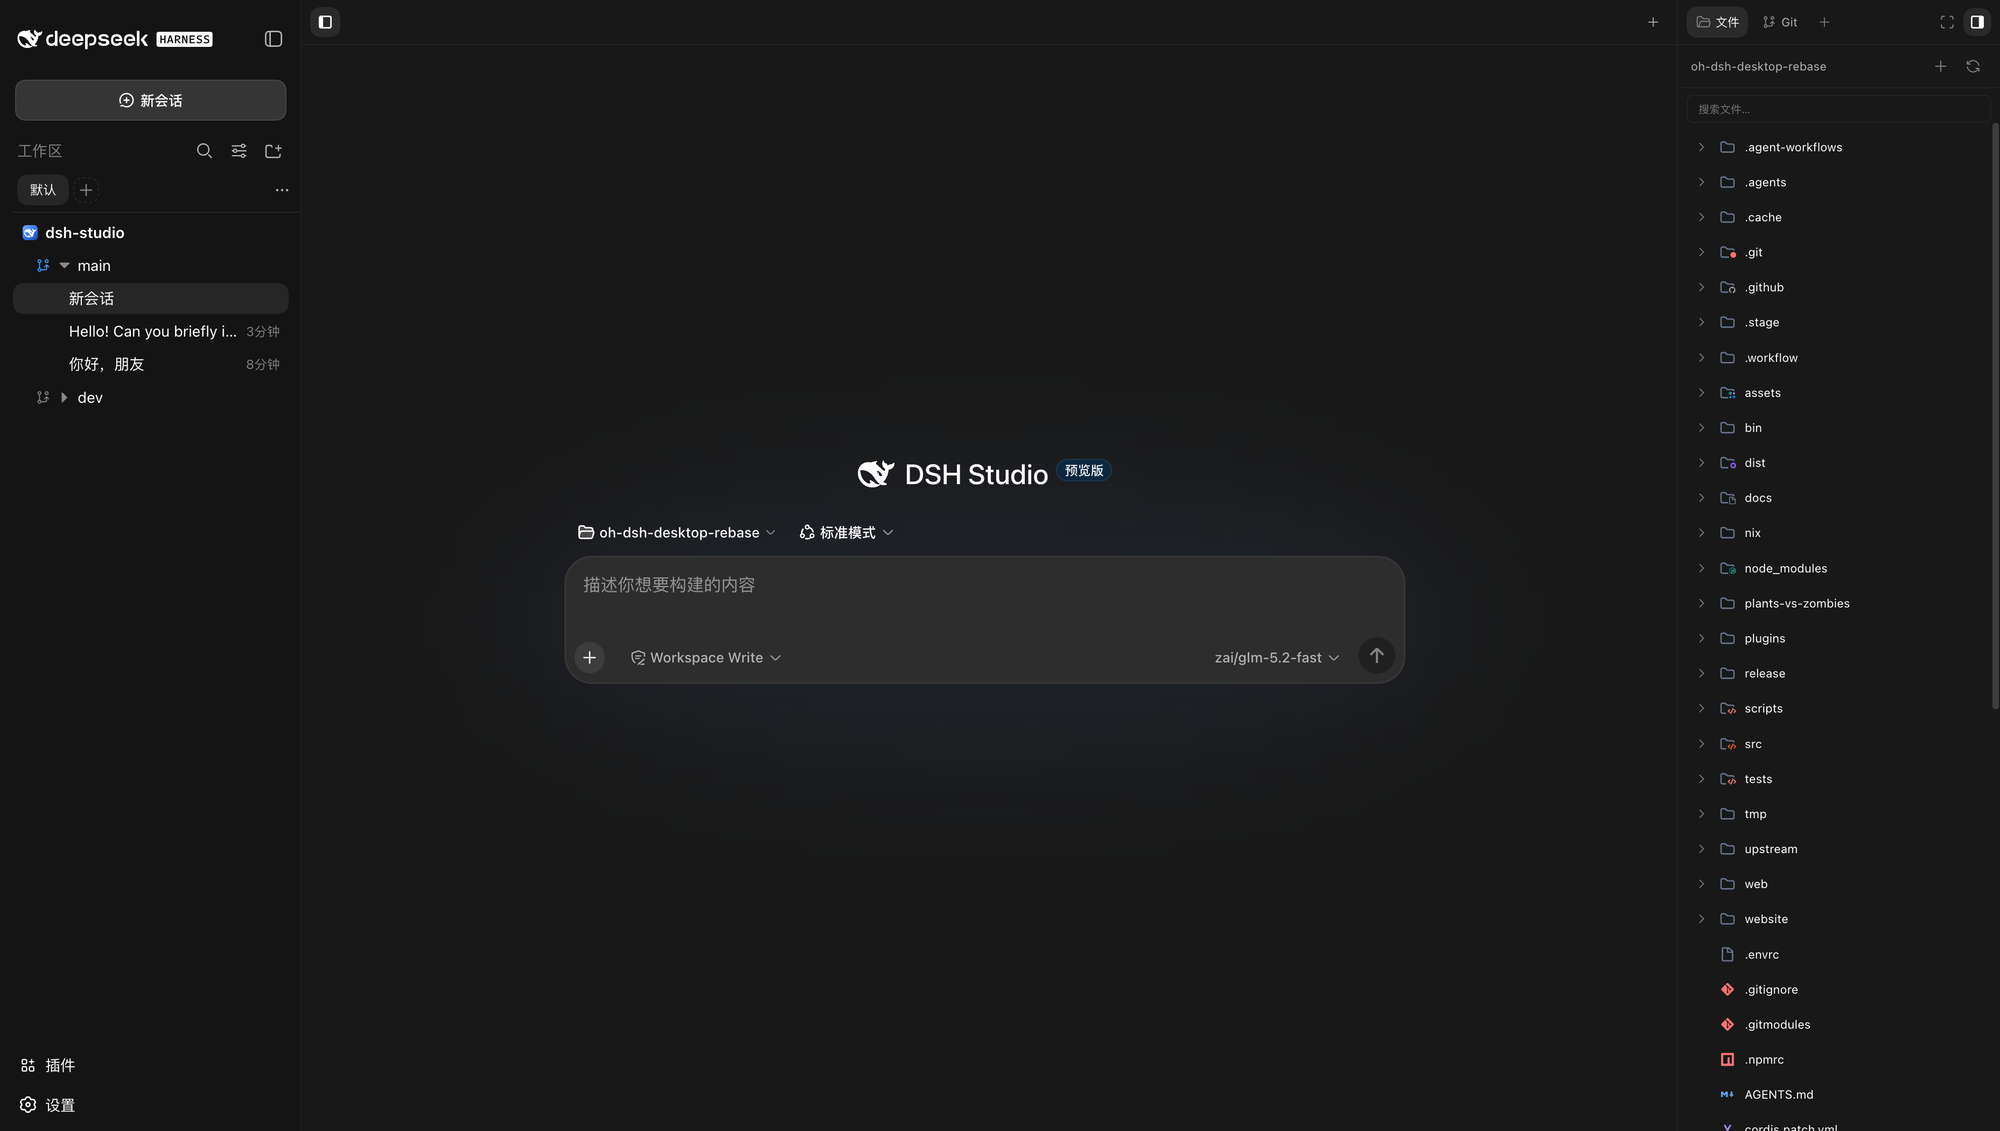
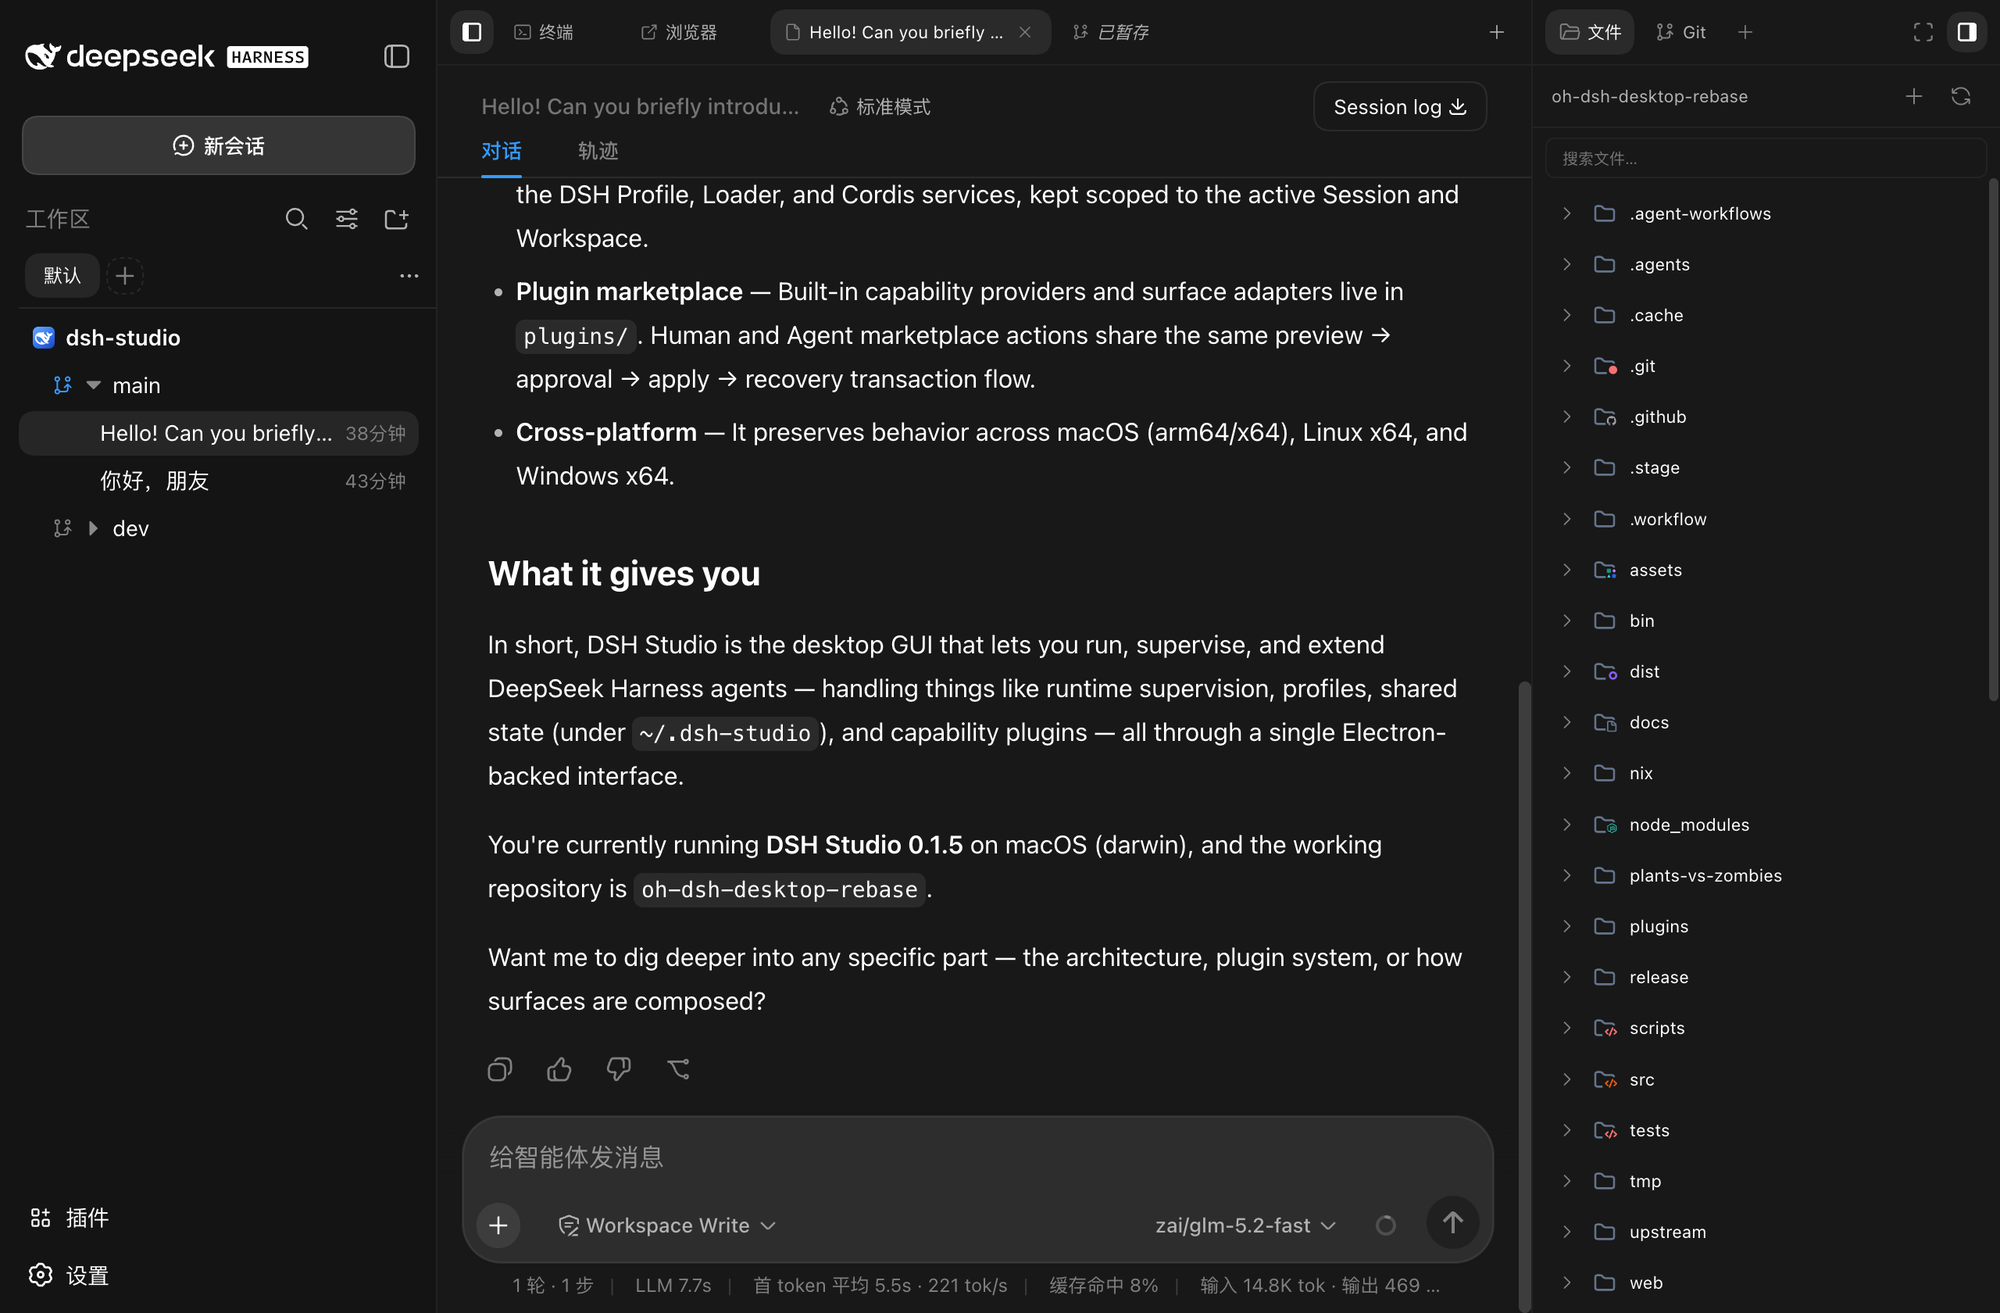
docs: add scenario screenshots to READMEs
Recapture all README screenshots with multiple center tabs mounted
(conversation selected, terminal and browser tabs in the bar) so the
images reflect real working layouts. Add three new scenarios: the
left-rail project tree with automatically detected project icons
(from package.json icon, local PNG, homepage favicon, or Git provider
avatar), AI commit message generation in the Git panel, and the
staged 'view all' surface that opens staged files as a center tab
with a file tree. Rewrite the interface preview sections in both
READMEs with descriptive copy per scenario.

diff --git a/README.en.md b/README.en.md
@@ -32,53 +32,73 @@
 
 DSH Studio is built on the DeepSeek Harness runtime. It brings AI agents, workspaces, local development tools, and the plugin ecosystem into an installable Desktop/Web workbench. Model services can still run in the cloud; projects, sessions, terminals, files, Git review, browser state, and plugin state are organized by one local workspace.
 
+The screenshot above shows the typical DSH Studio layout: the left rail lists multiple projects and branches, the center area keeps conversation, terminal, and browser tabs open simultaneously while staying on the conversation tab, and the right-rail Git panel shows staged changes and diffs in real time.
+
 ## Interface preview
 
-<table>
-  <tr>
-    <td width="50%" valign="top">
-      <h3>🗂 Project tree — left rail</h3>
-      <p>Project → Worktree → Session tree with multiple projects, branches, groups, aliases, project icons, search, and persistent view state.</p>
-      <img src="./assets/dsh-studio-left-rail.png" alt="Left rail project tree" width="100%">
-    </td>
-    <td width="50%" valign="top">
-      <h3>🔍 Git review — right rail</h3>
-      <p>Staged / unstaged / untracked sections, commit history, commit file trees, committed / unpushed diffs, and review targets on code lines.</p>
-      <img src="./assets/dsh-studio-git-review.png" alt="Git review panel" width="100%">
-    </td>
-  </tr>
-  <tr>
-    <td width="50%" valign="top">
-      <h3>📄 Diff viewer</h3>
-      <p>Multi-file path tree, line-level diff, image diff, conflict view, and inline comment targets for committed and unpushed changes.</p>
-      <img src="./assets/dsh-studio-diff.png" alt="Diff viewer" width="100%">
-    </td>
-    <td width="50%" valign="top">
-      <h3>📁 File browsing</h3>
-      <p>Project-scoped file tree and file preview with search, sort, and quick navigation.</p>
-      <img src="./assets/dsh-studio-files.png" alt="File browsing" width="100%">
-    </td>
-  </tr>
-  <tr>
-    <td width="50%" valign="top">
-      <h3>🖥 Project terminal</h3>
-      <p>Native PTY, unified shell resolution, project-scoped sessions, streaming and replay — available as a center tab or right-rail panel.</p>
-      <img src="./assets/dsh-studio-terminal.png" alt="Project terminal" width="100%">
-    </td>
-    <td width="50%" valign="top">
-      <h3>⚙ Settings</h3>
-      <p>General settings, model config, Agent presets, sidebar options, and skin switching in one panel shared across Desktop and Web.</p>
-      <img src="./assets/dsh-studio-settings.png" alt="Settings panel" width="100%">
-    </td>
-  </tr>
-  <tr>
-    <td width="50%" valign="top" colspan="2">
-      <h3>🧩 Plugin marketplace</h3>
-      <p>Browse and manage DSH plugins from multiple sources. Candidates go through preview and approval, with source locking, bundle validation, apply, and restore flows.</p>
-      <img src="./assets/dsh-studio-plugin-marketplace.png" alt="Plugin marketplace" width="100%">
-    </td>
-  </tr>
-</table>
+### 🗂 Project tree with automatic icons
+
+The left rail organizes context in a **Project → Worktree → Session** tree. Each project's icon is automatically detected from static assets inside the project directory — it first reads the `icon` field declared in `package.json`, then searches for PNG files in the project, and can also pull from the project homepage favicon or the Git provider avatar — no manual configuration needed.
+
+<p align="center">
+  <img src="./assets/dsh-studio-project-icons.png" alt="Left rail project tree with automatic icons" width="280">
+</p>
+
+If the automatic detection is not what you want, right-click the project to choose a built-in icon or upload a custom PNG. The left rail also supports multiple projects, branches, groups, aliases, search, and persistent view state.
+
+### 🔍 Git review and smart commit
+
+The right-rail Git panel brings staged, unstaged, untracked sections and commit history together in one panel. Click "Generate commit message" to call the model and auto-write a commit title and body from the current changes, with configurable model and reasoning effort.
+
+<p align="center">
+  <img src="./assets/dsh-studio-ai-commit.png" alt="AI-generated commit message" width="100%">
+</p>
+
+After generation you can edit the message inline and commit all staged changes with one click. Clicking "View all" in the staged section opens the staged files as a standalone center tab with the file tree on the left, making it easy to compare code and diffs side by side.
+
+<p align="center">
+  <img src="./assets/dsh-studio-view-all.png" alt="View all staged files" width="100%">
+</p>
+
+### 📄 Diff viewer
+
+Click any file in the Git panel to open the diff viewer in the right rail. It supports line-level diff, image diff, conflict view, and inline comment targets, and can compare committed and unpushed changes.
+
+<p align="center">
+  <img src="./assets/dsh-studio-diff.png" alt="Diff viewer" width="100%">
+</p>
+
+### 📁 File browsing
+
+Switch the right rail to the Files tab to browse the project-level file tree and preview files, with search, sort, and quick navigation. The center conversation tab stays open, so file browsing does not interrupt the chat.
+
+<p align="center">
+  <img src="./assets/dsh-studio-files.png" alt="File browsing" width="100%">
+</p>
+
+### 🖥 Project terminal
+
+The terminal opens as a center tab with a native PTY, unified shell resolution, and project-scoped sessions. Conversation and browser tabs stay in the tab bar for instant switching.
+
+<p align="center">
+  <img src="./assets/dsh-studio-terminal.png" alt="Project terminal" width="100%">
+</p>
+
+### ⚙ Settings
+
+General settings, model config, Agent presets, sidebar options, and skin switching share one panel across Desktop and Web.
+
+<p align="center">
+  <img src="./assets/dsh-studio-settings.png" alt="Settings panel" width="100%">
+</p>
+
+### 🧩 Plugin marketplace
+
+Browse and manage DSH plugins from multiple sources. Candidates go through preview and approval, with source locking, bundle validation, apply, and restore flows.
+
+<p align="center">
+  <img src="./assets/dsh-studio-plugin-marketplace.png" alt="Plugin marketplace" width="100%">
+</p>
 
 ## Features
 

diff --git a/README.md b/README.md
@@ -32,53 +32,73 @@
 
 DSH Studio 基于 DeepSeek Harness runtime 构建，把 AI Agent、Workspace、本地开发工具和插件生态组织到一个可安装的 Desktop/Web 工作台中。模型服务仍可按需运行在云端；项目、会话、终端、文件、Git Review、浏览器和插件状态由本地工作区统一组织。
 
+上图展示了 DSH Studio 的典型工作布局：左栏项目树列出多个项目和分支，中间区域同时挂载对话、终端和浏览器三个标签页并停留在对话标签，右栏 Git 面板实时显示暂存区与变更。
+
 ## 界面预览
 
-<table>
-  <tr>
-    <td width="50%" valign="top">
-      <h3>🗂 项目树 — 左栏</h3>
-      <p>Project → Worktree → Session 三层项目树，支持多项目、多分支、分组、别名、项目图标、搜索和持久化视图状态。</p>
-      <img src="./assets/dsh-studio-left-rail.png" alt="左栏项目树" width="100%">
-    </td>
-    <td width="50%" valign="top">
-      <h3>🔍 Git Review — 右栏</h3>
-      <p>查看 staged / unstaged / untracked 分区，浏览提交历史、commit 文件树、committed / unpushed diff，在代码行上留下审阅目标。</p>
-      <img src="./assets/dsh-studio-git-review.png" alt="Git Review 面板" width="100%">
-    </td>
-  </tr>
-  <tr>
-    <td width="50%" valign="top">
-      <h3>📄 Diff 查看器</h3>
-      <p>多文件路径树、行级 diff、图片 diff、冲突查看和行内评论目标，支持 committed 与 unpushed 变更对比。</p>
-      <img src="./assets/dsh-studio-diff.png" alt="Diff 查看器" width="100%">
-    </td>
-    <td width="50%" valign="top">
-      <h3>📁 文件浏览</h3>
-      <p>项目级文件树与文件预览，支持搜索、排序和快速跳转。</p>
-      <img src="./assets/dsh-studio-files.png" alt="文件浏览" width="100%">
-    </td>
-  </tr>
-  <tr>
-    <td width="50%" valign="top">
-      <h3>🖥 项目级终端</h3>
-      <p>原生 PTY、shell 解析链统一、项目级作用域、流式输出与重放，可作为中心 Tab 或右栏面板打开。</p>
-      <img src="./assets/dsh-studio-terminal.png" alt="项目级终端" width="100%">
-    </td>
-    <td width="50%" valign="top">
-      <h3>⚙ 设置面板</h3>
-      <p>通用设置、模型配置、Agent 预设、侧边栏选项和皮肤切换集中在一个面板内，Desktop 与 Web 共享同一套配置。</p>
-      <img src="./assets/dsh-studio-settings.png" alt="设置面板" width="100%">
-    </td>
-  </tr>
-  <tr>
-    <td width="50%" valign="top" colspan="2">
-      <h3>🧩 插件市场</h3>
-      <p>浏览和管理来自多个来源的 DSH 插件。安装前经过候选预览与审批，保留来源锁定、bundle 校验、应用和恢复流程。</p>
-      <img src="./assets/dsh-studio-plugin-marketplace.png" alt="插件市场" width="100%">
-    </td>
-  </tr>
-</table>
+### 🗂 项目树与自动图标
+
+左栏按 **Project → Worktree → Session** 三层组织工作上下文。每个项目的图标会自动探测项目目录中的静态资源——优先读取 `package.json` 声明的 icon 字段，其次搜索项目内的 PNG 文件，还可以从项目主页 favicon 或 Git 平台头像获取——无需手动配置即可显示项目专属图标。
+
+<p align="center">
+  <img src="./assets/dsh-studio-project-icons.png" alt="左栏项目树与自动图标" width="280">
+</p>
+
+如果自动探测不符合预期，也可以右键项目手动设置内置图标或上传自定义 PNG。左栏同时支持多项目、多分支、项目分组、别名、搜索和持久化视图状态。
+
+### 🔍 Git Review 与智能提交
+
+右栏 Git 面板把暂存区、未暂存、未跟踪分区和提交历史集中在一个面板内。点击「生成提交信息」即可调用模型根据当前变更自动撰写提交标题和正文，支持选择模型和思考强度。
+
+<p align="center">
+  <img src="./assets/dsh-studio-ai-commit.png" alt="智能生成提交信息" width="100%">
+</p>
+
+提交信息生成后可以直接在提交信息框里编辑，确认后一键提交全部暂存变更。点击已暂存区的「查看全部」会把暂存文件展开为中心区域的一个独立标签页，左边保留文件树导航，方便对照代码和 diff。
+
+<p align="center">
+  <img src="./assets/dsh-studio-view-all.png" alt="查看全部暂存文件" width="100%">
+</p>
+
+### 📄 Diff 查看器
+
+点击 Git 面板中的任意文件即可在右栏打开 diff 查看器。支持行级 diff、图片 diff、冲突查看和行内评论目标，同时可以对比 committed 与 unpushed 变更。
+
+<p align="center">
+  <img src="./assets/dsh-studio-diff.png" alt="Diff 查看器" width="100%">
+</p>
+
+### 📁 文件浏览
+
+右栏切换到文件标签即可浏览项目级文件树与文件预览，支持搜索、排序和快速跳转。中心区域的对话标签保持打开，不影响文件浏览。
+
+<p align="center">
+  <img src="./assets/dsh-studio-files.png" alt="文件浏览" width="100%">
+</p>
+
+### 🖥 项目级终端
+
+终端作为中心标签页打开，使用原生 PTY、统一的 shell 解析链和项目级作用域。对话和浏览器标签同时挂在标签栏，随时切换。
+
+<p align="center">
+  <img src="./assets/dsh-studio-terminal.png" alt="项目级终端" width="100%">
+</p>
+
+### ⚙ 设置面板
+
+通用设置、模型配置、Agent 预设、侧边栏选项和皮肤切换集中在一个面板内，Desktop 与 Web 共享同一套配置。
+
+<p align="center">
+  <img src="./assets/dsh-studio-settings.png" alt="设置面板" width="100%">
+</p>
+
+### 🧩 插件市场
+
+浏览和管理来自多个来源的 DSH 插件。安装前经过候选预览与审批，保留来源锁定、bundle 校验、应用和恢复流程。
+
+<p align="center">
+  <img src="./assets/dsh-studio-plugin-marketplace.png" alt="插件市场" width="100%">
+</p>
 
 ## 主要能力
 
